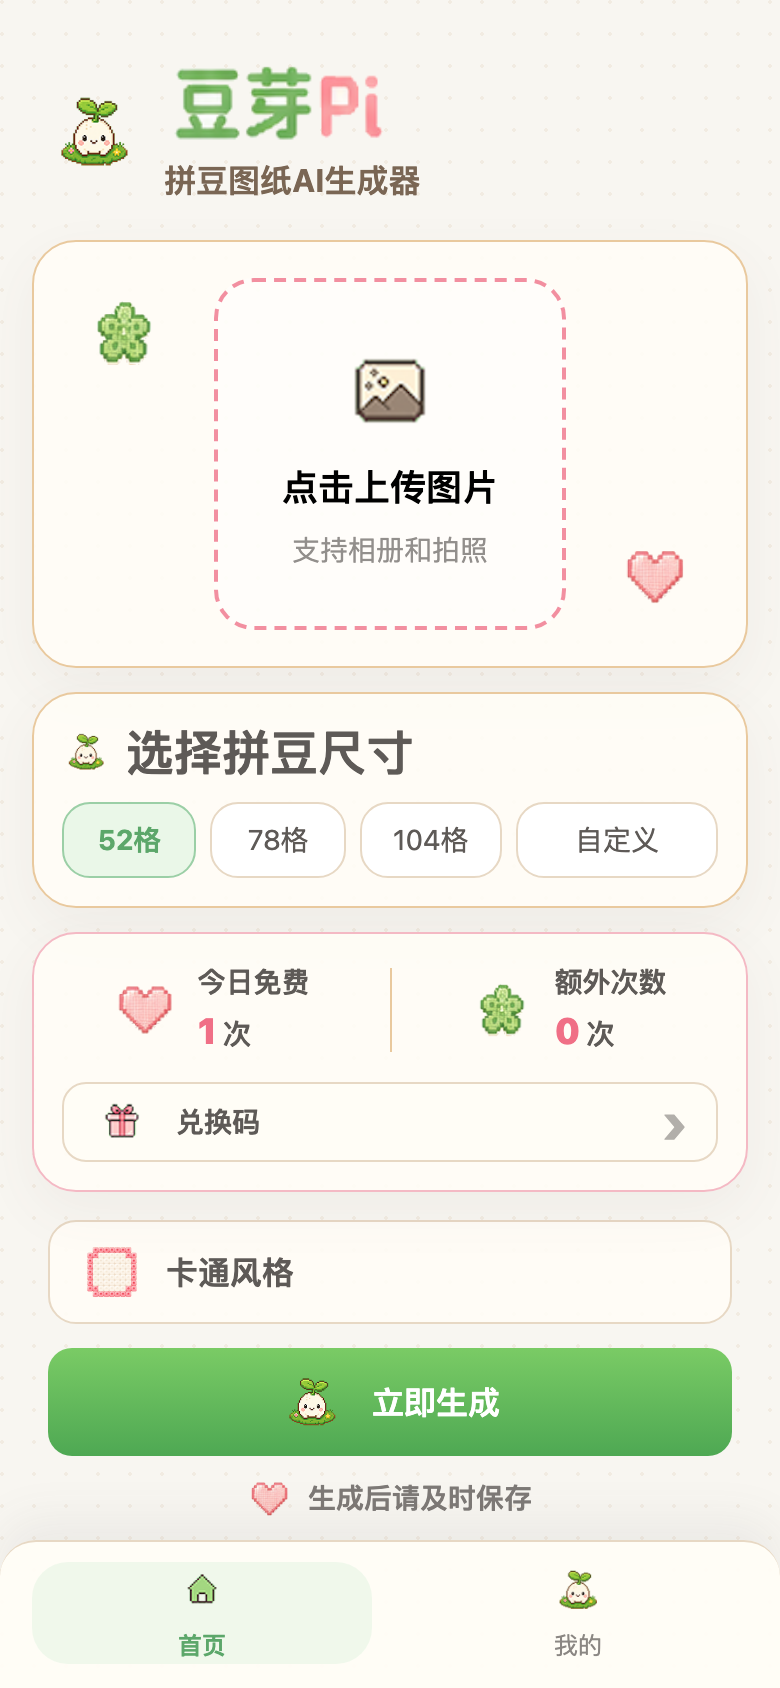
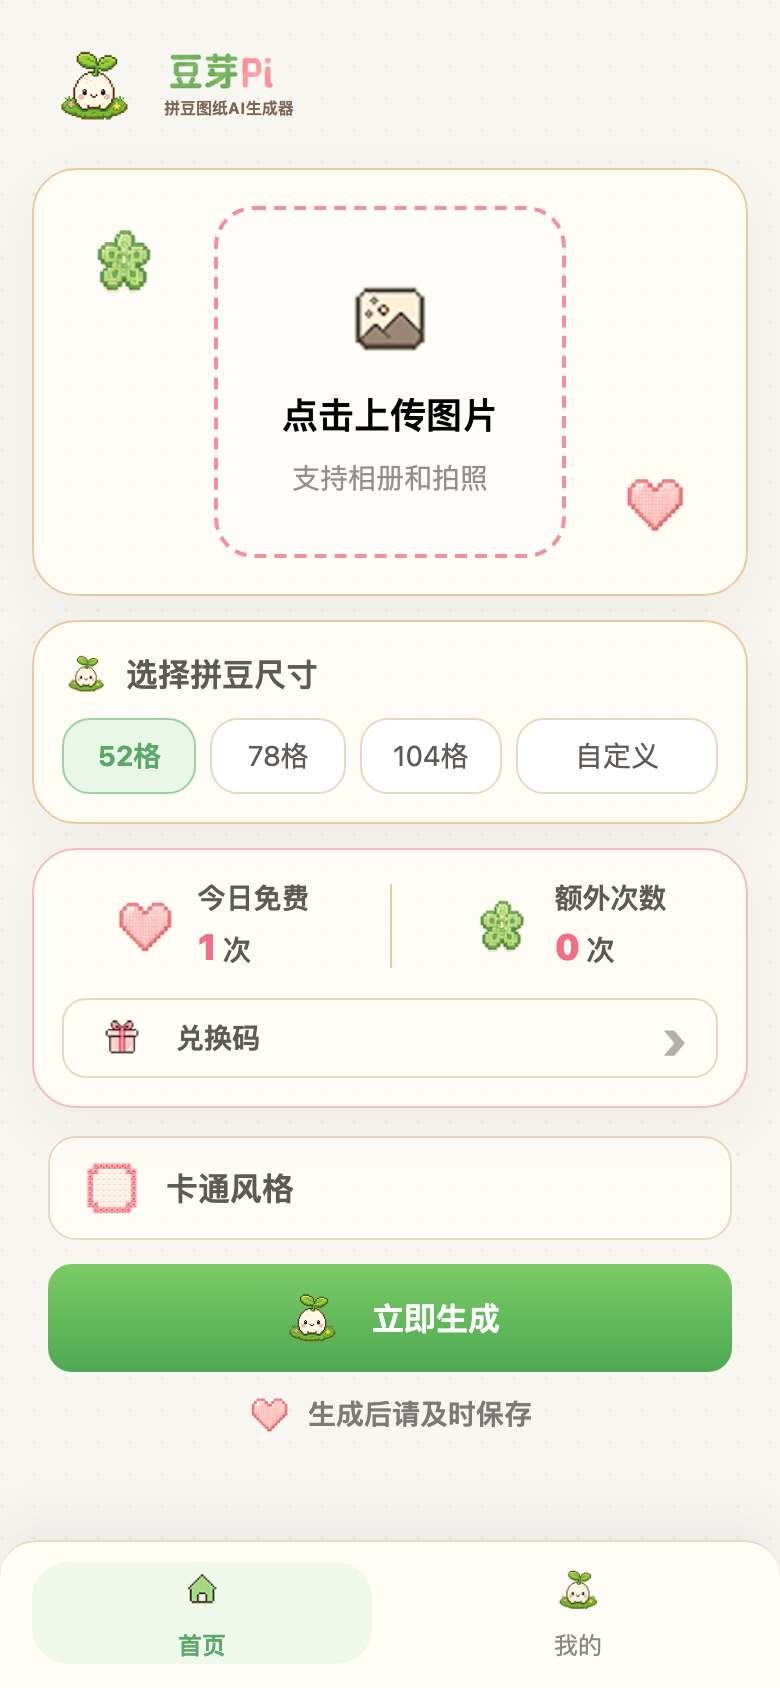
Adjust home brand spacing

diff --git a/production-html/styles.css b/production-html/styles.css
@@ -984,7 +984,7 @@ body.mini-program-app {
   max-width: 390px;
   min-height: 100dvh;
   margin: 0;
-  padding: max(18px, env(safe-area-inset-top)) 18px calc(96px + env(safe-area-inset-bottom));
+  padding: max(20px, env(safe-area-inset-top)) 18px calc(96px + env(safe-area-inset-bottom));
 }
 
 .mini-program-app .screen {
@@ -1003,7 +1003,7 @@ body.mini-program-app {
 }
 
 .home-brand {
-  padding: 12px 8px 8px;
+  padding: 0 8px 8px;
 }
 
 .top-brand-row {
@@ -1020,14 +1020,14 @@ body.mini-program-app {
 }
 
 .home-logo {
-  width: 112px;
+  width: 56px;
   display: block;
 }
 
 .home-brand p {
-  margin-top: 4px;
+  margin-top: 2px;
   color: #7A6654;
-  font-size: 16px;
+  font-size: 8px;
   font-weight: 700;
 }
 

diff --git a/production-html/tests/verify-production-html.js b/production-html/tests/verify-production-html.js
@@ -108,6 +108,10 @@ assert(!miniHtml.includes("profile-count-card\">\n        <div>\n          <img"
 assert(!miniHtml.includes("home-hero"), "Home must remove the top AI promo area.");
 assert(miniHtml.includes("top-brand-row"), "Home logo/name/slogan must share one top brand row.");
 assert(miniHtml.includes('src="assets/brand/mascot-logo.png"') && miniHtml.includes("home-brand-icon"), "Home top brand must use the logo icon on the left.");
+assert(css.includes("padding: max(20px, env(safe-area-inset-top))"), "Home top brand must sit 20px from the top.");
+assert(css.includes(".home-brand {\n  padding: 0 8px 8px;"), "Home brand must not add extra top padding.");
+assert(css.includes(".home-logo") && css.includes("width: 56px"), "Home name logo must be reduced to half size.");
+assert(css.includes(".home-brand p") && css.includes("font-size: 8px"), "Home slogan must be reduced to half size.");
 assert(miniHtml.includes("assets/icons/upload-close.png") || miniJs.includes("assets/icons/upload-close.png"), "Uploaded preview must reference generated close PNG icon.");
 assert(miniJs.includes("function clearUpload"), "Uploaded preview close icon must clear the uploaded image.");
 assert(css.includes("aspect-ratio: 1 / 1"), "Upload dashed area must be 1:1.");

diff --git a/production-html/design-qa.md b/production-html/design-qa.md
@@ -33,7 +33,8 @@ Browser smoke results:
 - Mini program bottom navigation contains only `首页` and `我的`; old `生成` and `图纸` navigation entries and pages are removed.
 - Admin page loaded with 18 images and 0 broken images.
 - Mini program viewport is a direct 390px mobile-browser page, not a phone mockup; checked `documentElement.scrollWidth = 390`.
-- Home top brand uses the mascot logo on the left, with app name and slogan on the right.
+- Home top brand uses the mascot logo on the left, with app name and slogan on the right; the brand group starts 20px from the top.
+- Home app-name image and slogan text are reduced to 1/2 of the previous size.
 - Home top promo area `AI生成专属拼豆图纸` has been removed.
 - Home upload dashed area is a 1:1 square; uploaded images cover the square and show the generated close PNG in the top-right corner.
 - Home size title `选择拼豆尺寸` uses 16px text.